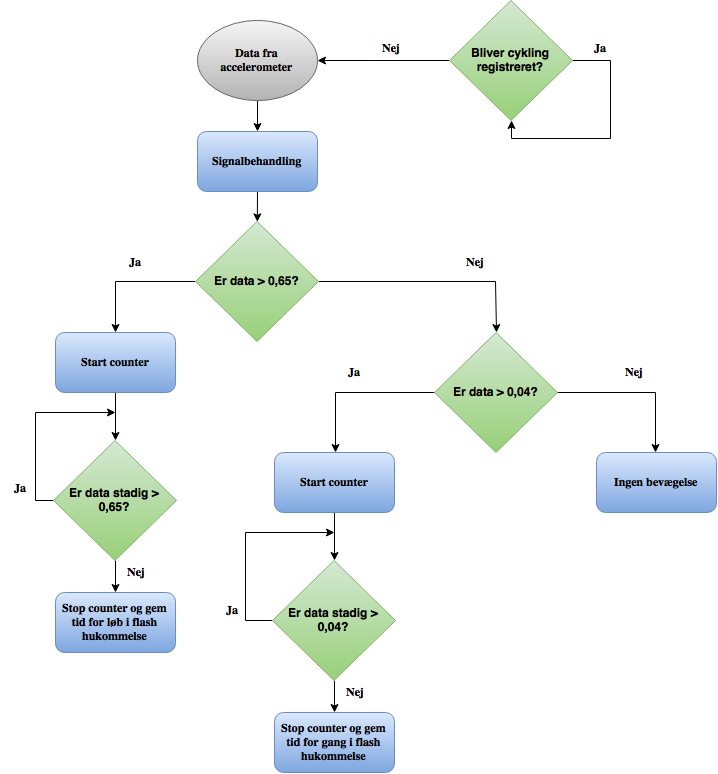
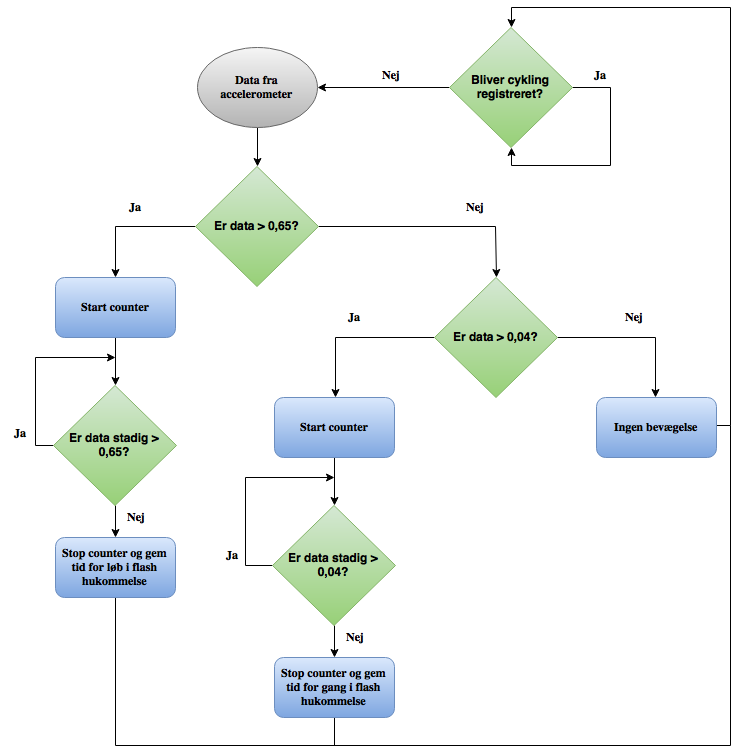
algoritme design

diff --git a/rapportAfsnit/eDesign/xAlgoritme.tex b/rapportAfsnit/eDesign/xAlgoritme.tex
@@ -6,20 +6,15 @@ For at kunne adskille gang, løb og cykling benyttes et accelerometer og et gyro
 
 \subsubsection{Algoritme til gang og løb}
 Data fra accelerometerets y-akse skal signalbehandles, førend en algoritme kan detektere og adskille gang fra løb. Måden hvorpå dataet vil blive behandlet er først ved at fjerne støj ved brug af et elliptisk filter. Dette skal være et 4. ordens lavpas elliptisk filter med et pasbånd fra 20 til 100 Hz, og med en dæmpningsgrad på 60 dB\fxnote{og 0.5 dB peak-to-peak ripples}. Efterfølgende divideres det filtrerede signal med 8 og kvadreres. Resultatet heraf betyder at signaler som ikke relaterer sig til hælnedslaget minimeres kraftigt, og selve hælnedslaget forstærkes.\fxnote{ved gang er det swing og heel strike, ved løb er det primært kun heel strike, men også lidt toe offset.}
-Afslutningsvis vil signalet blive filtreret med et moving average filter som udglatter signalet, hvilket resulterer i at små udslag i signalet ikke opfattes, og signalets hælnedslag vil være pænt og tydeligt. \\
+Afslutningsvis vil signalet blive filtreret med et moving average filter som udglatter signalet, hvilket resulterer i at små udslag i signalet ikke opfattes, og signalets hælnedslag vil fremstå tydeligere. \\
 Resultatet af ovenstående signalbehandling medfører at der findes et udtryk for gang og løbs amplitude forhold. Ud fra denne behandling af pilotforsøgets data vurderes det, at amplituden for hælnedslag ved løb er over 0,65 og ved gang er over 0,04, hvorfor signaler med amplituder under 0,04 ikke vurderes som værende aktivitet.
-
 \begin{figure}[H]
 	\centering
 	\includegraphics[scale=0.5]{figures/cDesign/algoritme_gl.png}
 	\caption{Flowchart over algoritmen til detektering af gang og løb}
 	\label{fig:algoritme}
 \end{figure}
-
-\textbf{Ovenstående figur repræsenterer algoritmen for detektering og adskilles af gang og løb. Hvis løb detekteres skal en counter starte og først stoppe når cykling ikke længere detekteres. Når counteren stopper gemmes varigheden af counteren i et array tilhørende udført cykling. Hvis cykling ikke detekteres skal gyroskopet gå i LPM i 10 sekunder før algoritmen køres igen. 
-} 
-
-\textbf{Ovenstående forklaring til figur er ikke færdig.!!!}
+Ovenstående figur repræsenterer algoritmen for detektering og adskilles af gang og løb. Førend algoritmen tilhørende gang og løb starter, undersøges hvorvidt cykling registreres. Hvis dette ikke er tilfældet og løb detekteres skal en counter starte og først stoppe når løb ikke længere detekteres. Når counteren stopper gemmes varigheden for counteren i et array tilhørende udført løb. Hvis løb ikke detekteres, undersøges der hvorvidt gang registreres. Hvis gang registreres skal en counter starte og først stoppe når gang ikke længere detekteres. Når counteren stopper gemmes varigheden for counteren i et array tilhørende udført gang. Hvis algoritmen for detektering af løb og gang ikke registrer aktiviteterne, så bliver der ikke udført nogen bevægelse, og algoritmen starter forfra.
 
 \subsection{Cykling}
 Data fra gyroskopets z-akse skal signalbehandles, førend en algoritme kan detektere og adskille aktiviteterne. Første step i denne signalbehandling er at udføre en Fast Fourier Transform (FFT) over fire sekunders sampling. Dette medfører at signalets magnitude og dets tilhørende frekvenser kommer til udtryk, hvoraf andet step indledes. Dette step finder den maksimale magnitude med tilhørende frekvens. Tredje step består af to summeringer, første summering summerer FFT'en fra den frekvens hvor den største magnitude befandt sig $\pm 1$Hz. Anden summering summerer FFT'en fra 1 til 20 Hz. Disse integraler indleder fjerde og sidste step, som omregner hvor stor en procentdel første integrale udgør af signalets totale energi. \\
